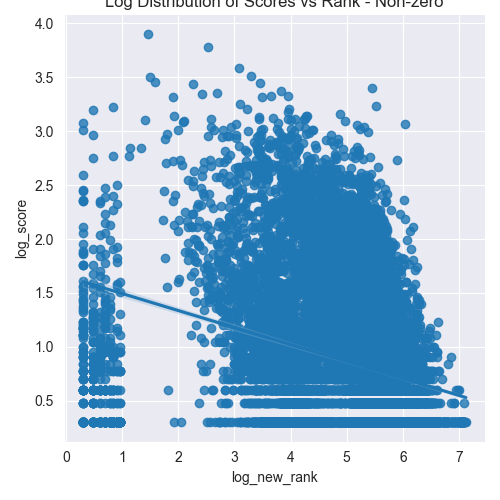
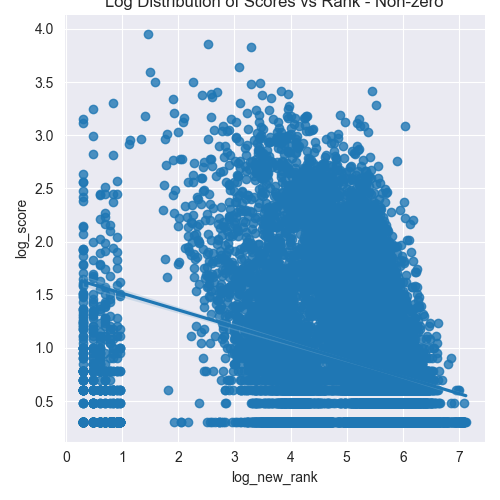
dvc repro

diff --git a/create_success_metrics.py b/create_success_metrics.py
@@ -13,7 +13,7 @@ def create_success_metrics():
     product_path= Path("data/products/products.pkl")
     review_path= Path("data/fake/fake_free_data/fake_free_reviews.pkl") if fake_free_data else Path("data/reviews/reviews.pkl")
     #importing product_df, review_df
-    product_df, review_df= [pd.read_pickle(file) for file in [product_path,  review_path / "reviews.pkl"]]
+    product_df, review_df= [pd.read_pickle(file) for file in [product_path,  review_path ]]
     product_df= create_success_metric(product_df, review_df, cutoff= cutoff)
     # fill NaN with 0 in df - i.e. no reviews
     product_df[['tot_stars','tot_reviews','avg_stars']] = product_df[['tot_stars','tot_reviews','avg_stars']].fillna(value=0)
